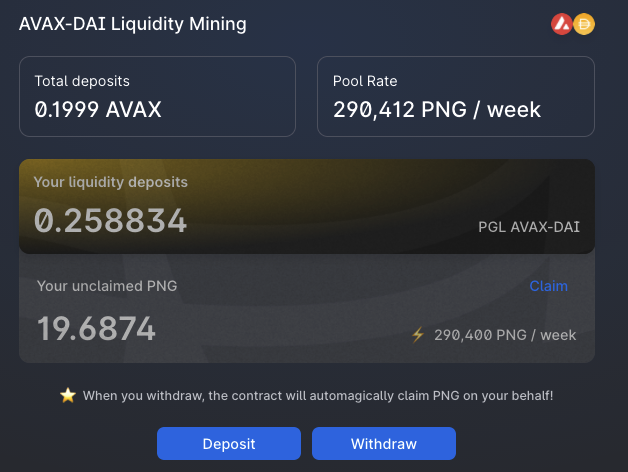
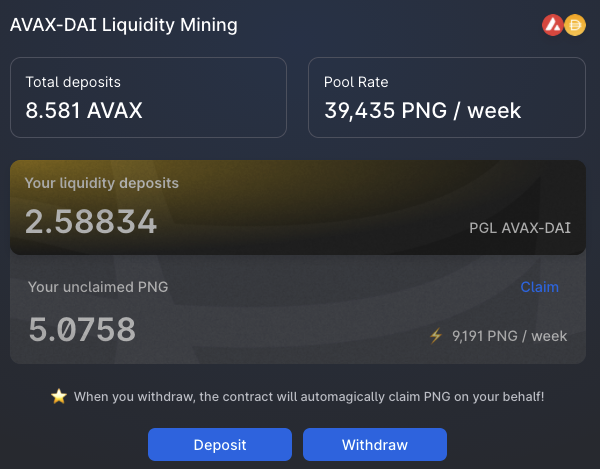
add tutorial to claim PNG without withdrawing PGL

diff --git a/src/routes/tutorials/earn-png.svelte b/src/routes/tutorials/earn-png.svelte
@@ -63,6 +63,42 @@
       <li>Select "Deposit" and confirm the transaction</li>
     </ol>
 
+    <h3 class="flex whitespace-pre-wrap group" id="claim-png-without-withdrawing">
+      <a
+        href="#claim-png-without-withdrawing"
+        class="absolute no-underline opacity-0 after:hash group-hover:opacity-100"
+        aria-label="Anchor"
+        style="margin-left: -1em; padding-right: 0.5em; box-shadow: none; color: rgb(161, 161, 170);"></a><span
+        >Claiming PNG Tokens without Withdrawing PGL Tokens
+      </span>
+    </h3>
+
+    <p>
+      After depositing your PGL tokens into a pool, you will accrue PNG tokens. You can claim your earned PNG tokens
+      without having to remove your PGL tokens.
+    </p>
+
+    <ol>
+      <li>
+        Select "PNG"
+        <img src="/tutorials/earn-png/005.png" />
+      </li>
+      <li>
+        Select "Manage" on the pool you would like to claim your PNG tokens from
+        <img src="/tutorials/earn-png/006.png" />
+      </li>
+      <li>
+        Select "Claim"
+        <img src="/tutorials/earn-png/007.png" />
+      </li>
+      <li>
+        Select "Claim" again and confirm the transaction through MetaMask
+        <img src="/tutorials/earn-png/008.png" />
+      </li>
+    </ol>
+
+    <p>Congratulations! You have just received your PNG rewards without removing your PGL tokens.</p>
+
     <h3 class="flex whitespace-pre-wrap group" id="withdrawing-pgl-tokens">
       <a
         href="#withdrawing-pgl-tokens"
@@ -78,19 +114,19 @@
     <ol>
       <li>
         Select "PNG"
-        <img src="/tutorials/earn-png/005.png" />
+        <img src="/tutorials/earn-png/009.png" />
       </li>
       <li>
         Select "Manage" on the pool you would like to withdraw from
-        <img src="/tutorials/earn-png/006.png" />
+        <img src="/tutorials/earn-png/010.png" />
       </li>
       <li>
         Select "Withdraw"
-        <img src="/tutorials/earn-png/007.png" />
+        <img src="/tutorials/earn-png/011.png" />
       </li>
       <li>
         Select "Withdraw & Claim"
-        <img src="/tutorials/earn-png/008.png" />
+        <img src="/tutorials/earn-png/012.png" />
       </li>
       <li>Confirm the transaction on MetaMask</li>
     </ol>
